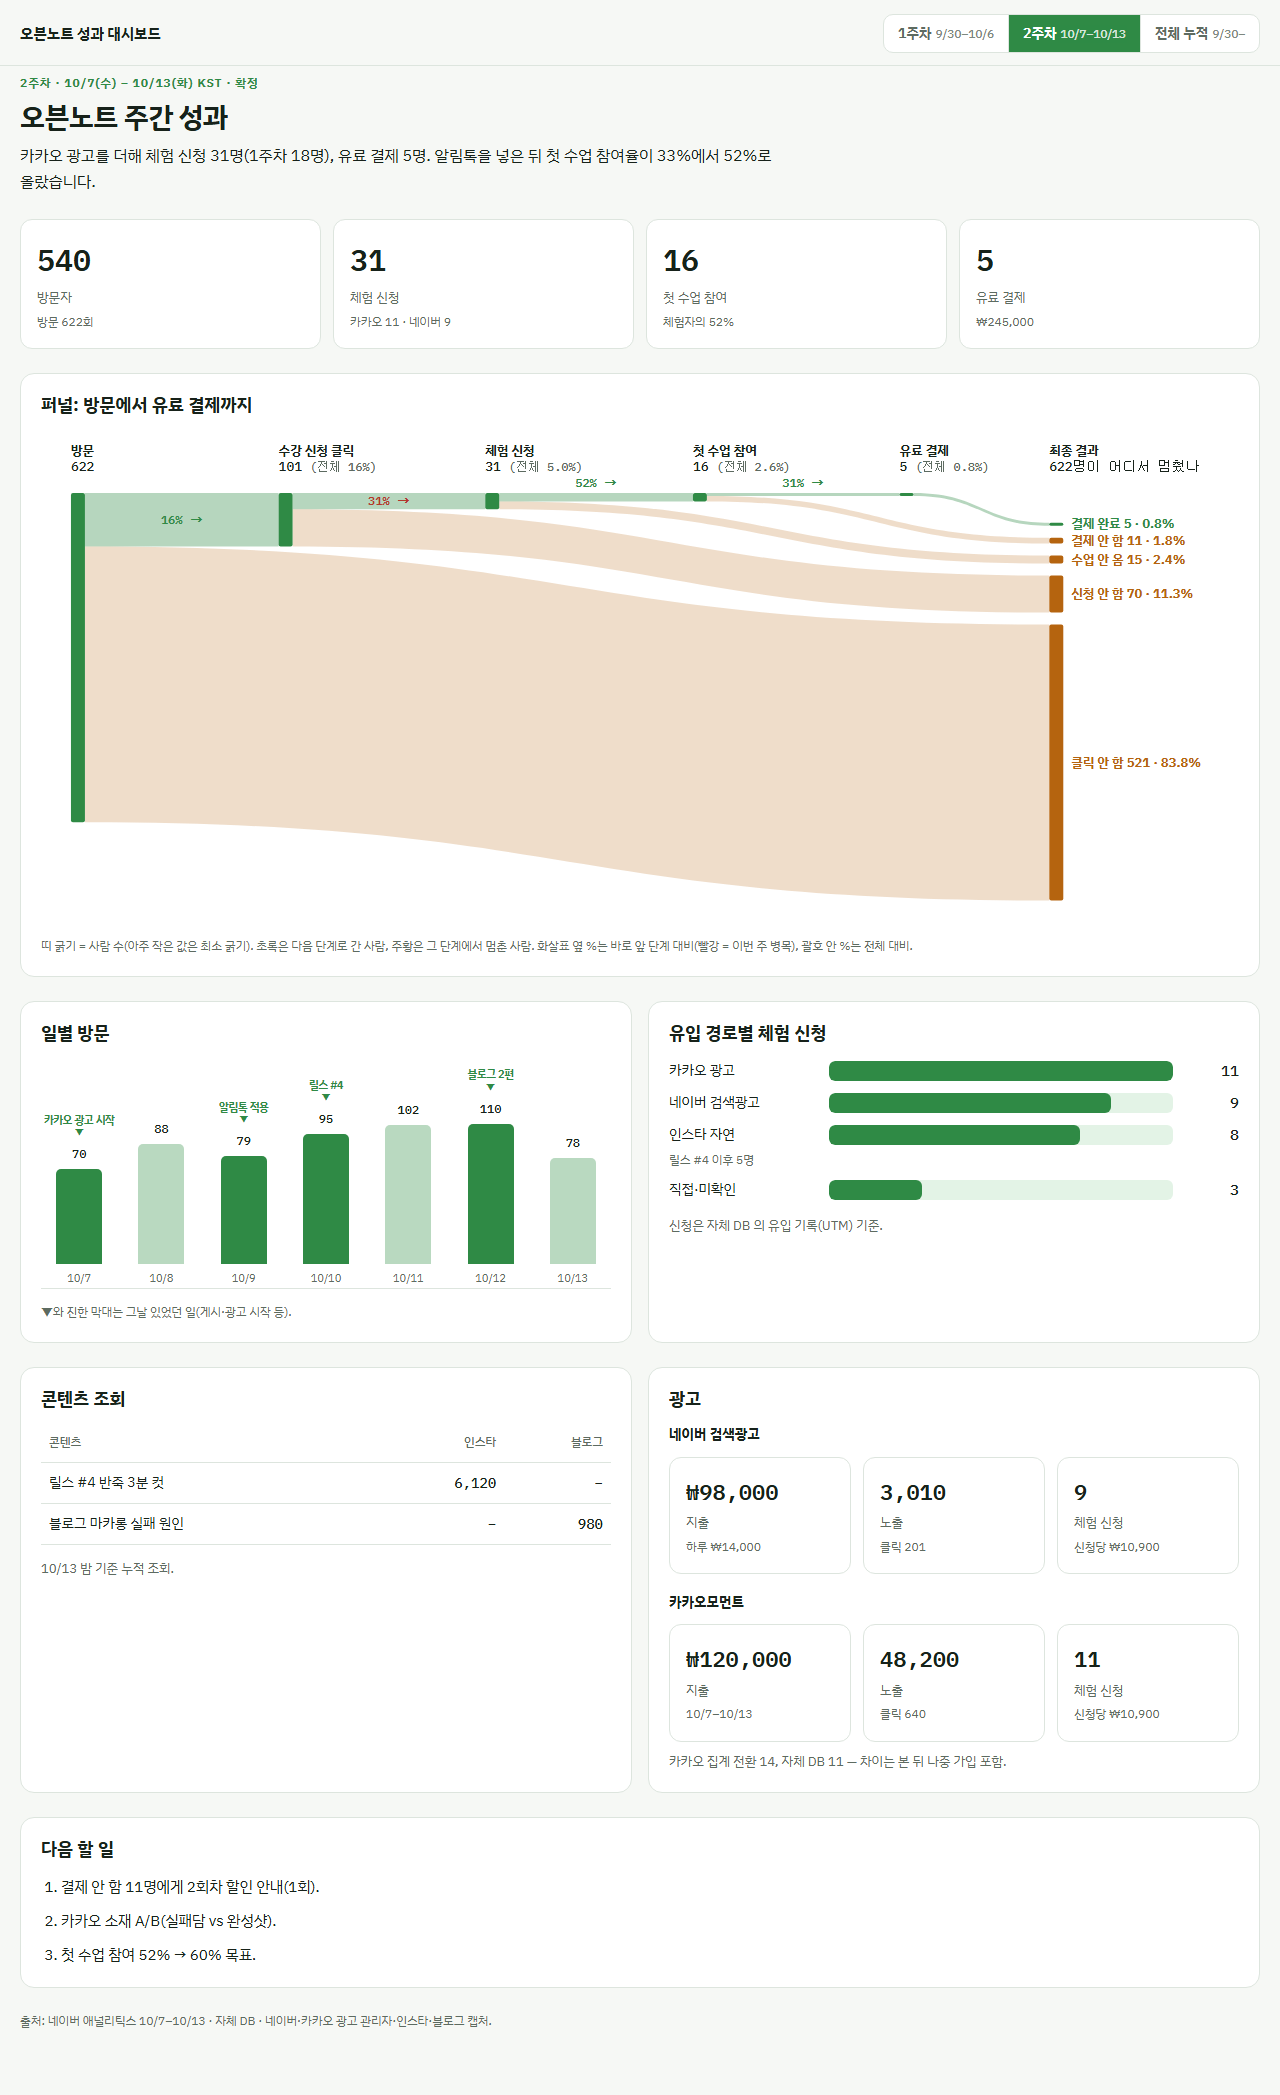
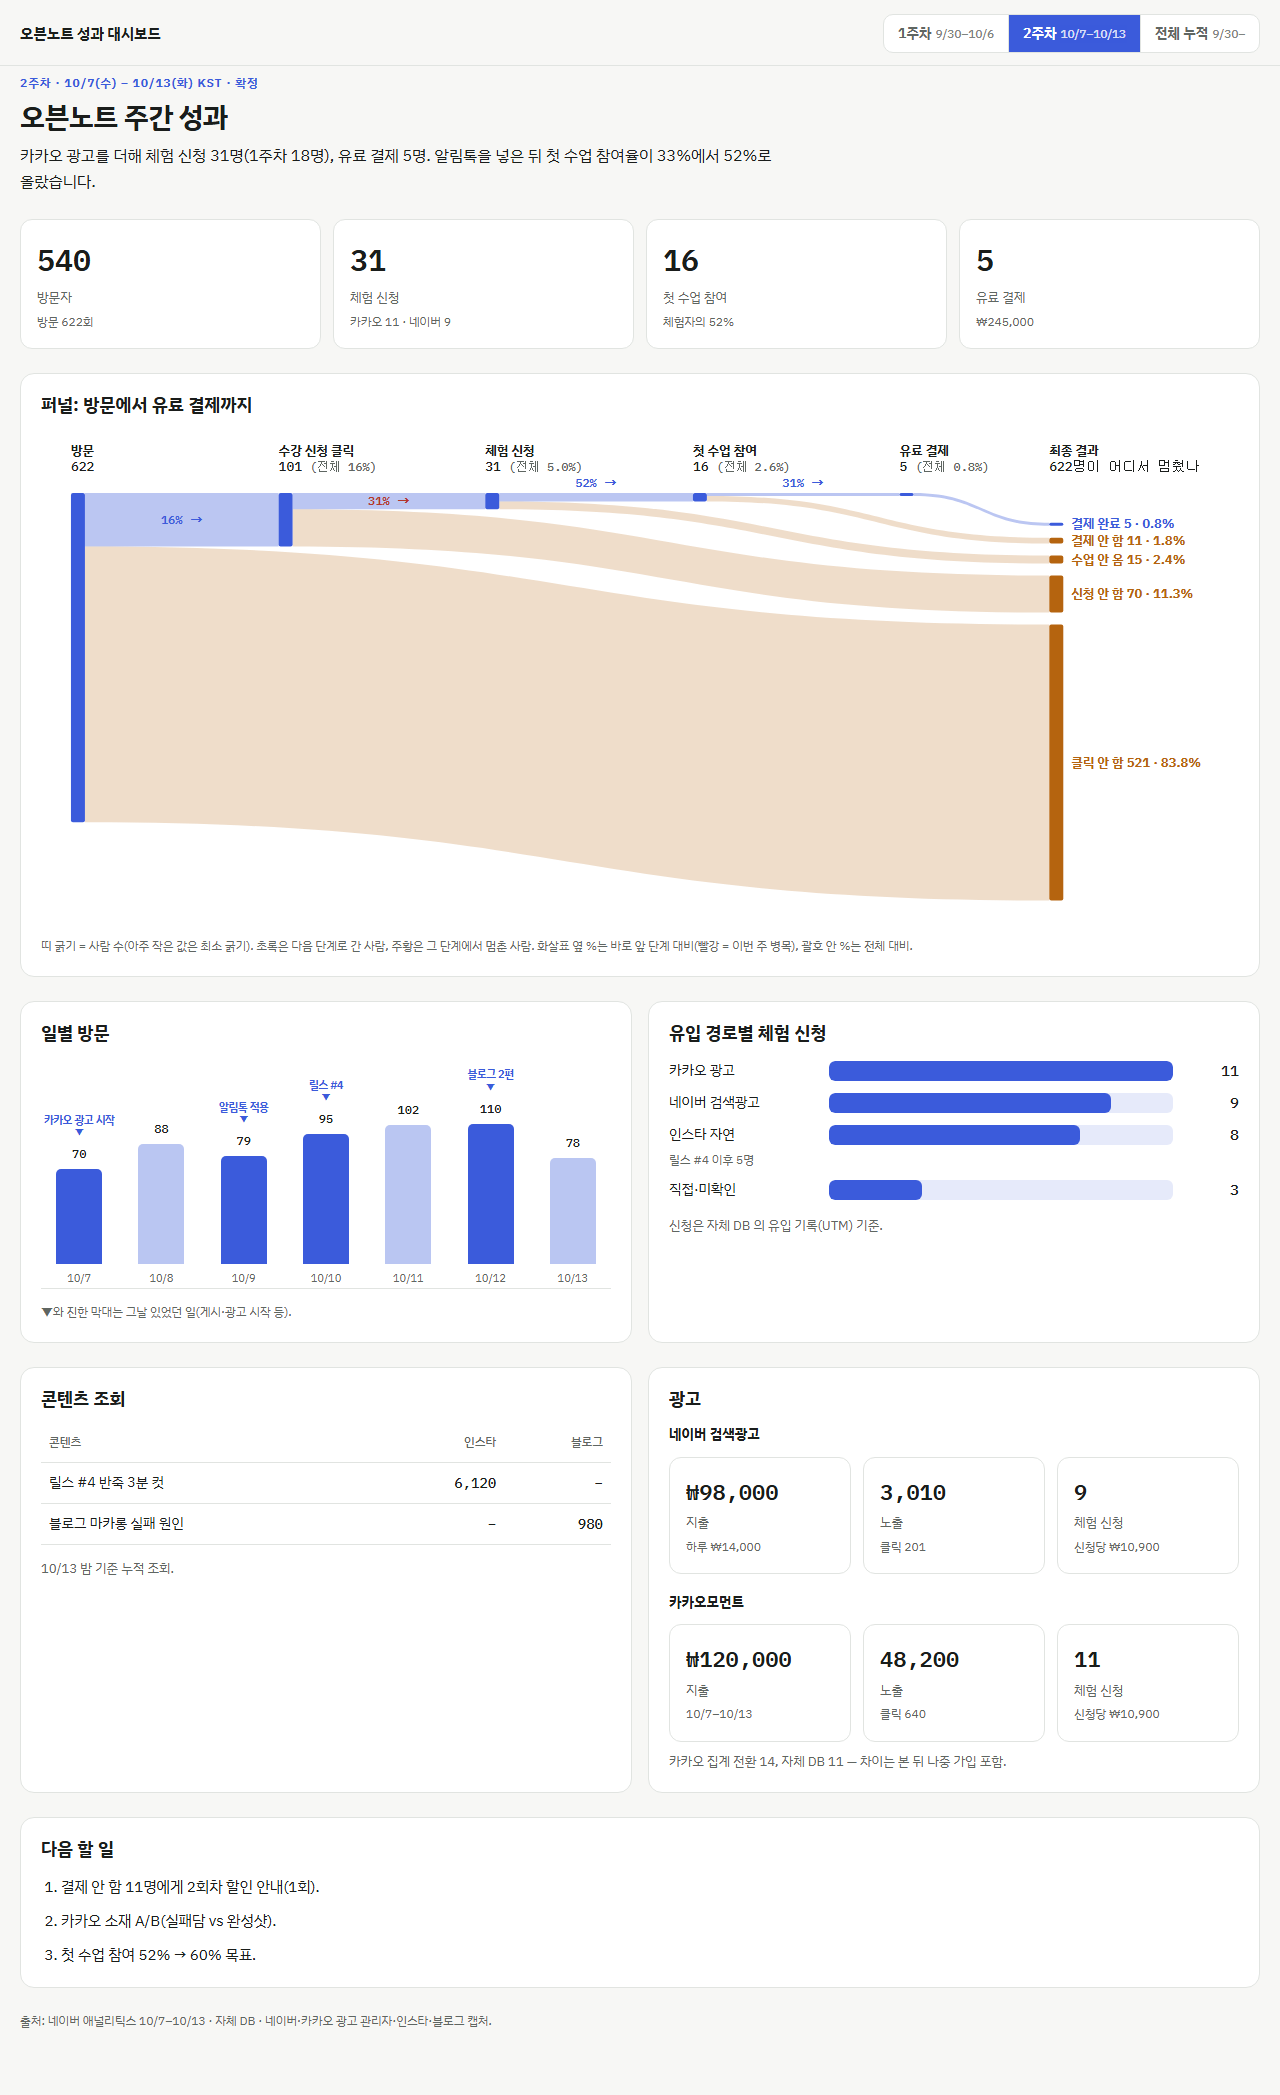
weekly-report kit v0.3 — 질문 4라운드(선택지), 서비스별 체크, 링크·스크린샷으로 브랜드 색

diff --git a/plugins/weekly-report/skills/weekly-report/references/template.html b/plugins/weekly-report/skills/weekly-report/references/template.html
@@ -10,20 +10,23 @@
 /* 주간 성과 대시보드 견본 — 화면 구조는 고정, 내용은 아래 <script> 의 REPORT 객체만 바꾼다.
    섹션: 기간 버튼 → 한 줄 요약 → KPI 4칸 → 퍼널(산키) → 일별 방문 + 유입별 전환 → 콘텐츠 표 + 광고 → 다음 할 일 → 출처 */
 :root {
-  --bg: #f6f8f5; --surface: #ffffff; --ink: #17221a; --muted: #5d6b61; --line: #dde5de;
-  --brand: #2f8a45; --brand-soft: #e3f3e6; --warn: #b5640f; --warn-soft: #fdf0e1; --bad: #b3372b;
-  --bar: var(--brand); --bar-dim: #b9d9c0;
+  /* 브랜드 색 하나(--brand-base)만 바꾸면 연한 톤·막대·다크 모드가 따라온다. REPORT.brandColor 가 이 값을 덮어쓴다. */
+  --brand-base: #2f8a45;
+  --bg: #f7f7f5; --surface: #ffffff; --ink: #1a1d1b; --muted: #5f6662; --line: #e1e4e1;
+  --brand: var(--brand-base); --brand-soft: color-mix(in srgb, var(--brand) 13%, var(--surface));
+  --warn: #b5640f; --warn-soft: #fdf0e1; --bad: #b3372b;
+  --bar: var(--brand); --bar-dim: color-mix(in srgb, var(--brand) 35%, var(--surface));
   --font-body: "IBM Plex Sans KR", "Apple SD Gothic Neo", "Malgun Gothic", system-ui, sans-serif;
   --font-num: "IBM Plex Mono", ui-monospace, "SFMono-Regular", monospace;
 }
 @media (prefers-color-scheme: dark) { :root:not([data-theme="light"]) {
-  --bg: #0f1511; --surface: #18201b; --ink: #e8efe9; --muted: #9aa99e; --line: #2a352d;
-  --brand: #6cc882; --brand-soft: #1d3324; --warn: #f0a85a; --warn-soft: #3a2a17; --bad: #f08a7e;
-  --bar-dim: #2f5a3a; color-scheme: dark } }
+  --bg: #121413; --surface: #1b1e1c; --ink: #e9ecea; --muted: #a0a7a3; --line: #2d322f;
+  --brand: color-mix(in srgb, var(--brand-base) 62%, #ffffff); --warn: #f0a85a; --warn-soft: #3a2a17; --bad: #f08a7e;
+  --bar-dim: color-mix(in srgb, var(--brand) 32%, var(--surface)); --on-brand: #121413; color-scheme: dark } }
 :root[data-theme="dark"] {
-  --bg: #0f1511; --surface: #18201b; --ink: #e8efe9; --muted: #9aa99e; --line: #2a352d;
-  --brand: #6cc882; --brand-soft: #1d3324; --warn: #f0a85a; --warn-soft: #3a2a17; --bad: #f08a7e;
-  --bar-dim: #2f5a3a; color-scheme: dark }
+  --bg: #121413; --surface: #1b1e1c; --ink: #e9ecea; --muted: #a0a7a3; --line: #2d322f;
+  --brand: color-mix(in srgb, var(--brand-base) 62%, #ffffff); --warn: #f0a85a; --warn-soft: #3a2a17; --bad: #f08a7e;
+  --bar-dim: color-mix(in srgb, var(--brand) 32%, var(--surface)); --on-brand: #121413; color-scheme: dark }
 * { box-sizing: border-box }
 body { background: var(--bg); color: var(--ink); font-family: var(--font-body); font-size: 15px; line-height: 1.6; padding: 0 16px 64px; margin: 0; word-break: keep-all }
 main { max-width: 1240px; margin: 0 auto; display: grid; gap: 24px }
@@ -40,7 +43,7 @@ p { margin: 0 }
 .seg { display: inline-flex; flex-wrap: wrap; border: 1px solid var(--line); border-radius: 10px; overflow: hidden; background: var(--surface) }
 .seg button { font: 600 14px var(--font-body); color: var(--muted); background: transparent; border: 0; padding: 8px 14px; cursor: pointer; border-right: 1px solid var(--line); white-space: nowrap }
 .seg button:last-child { border-right: 0 }
-.seg button[aria-pressed="true"] { background: var(--brand); color: var(--surface) }
+.seg button[aria-pressed="true"] { background: var(--brand); color: var(--on-brand, #fff) }
 .seg small { font-weight: 500; opacity: .8; margin-left: 4px }
 header.hd { display: grid; gap: 8px; padding-top: 8px }
 .headline { font-size: 16px; max-width: 80ch }
@@ -106,7 +109,8 @@ footer { font-size: 12px; color: var(--muted) }
 const REPORT = {
   brand: '오븐노트 성과 대시보드',
   title: '오븐노트 주간 성과',
-  brandColor: '',               // 예: '#c2410c' — 비우면 기본 초록
+  brandColor: '#3b5bdb',        // 서비스 대표 색(홈페이지 버튼·로고에서 뽑음). 비우면 기본 초록
+  dropColor: '',                // 선택: 퍼널 '멈춘 사람' 색. 브랜드가 주황·빨강 계열이면 '#8a8f8c'
   current: 'w2',                // 처음 열릴 기간
   periods: [
     { id: 'w1', label: '1주차', range: '9/30–10/6' },
@@ -216,7 +220,7 @@ function render(p) {
   <section aria-label="핵심 숫자">${tiles(d.kpis || [])}</section>
   <section class="panel"><h2>퍼널: ${esc(d.funnel.stages[0][0])}에서 ${esc(d.funnel.stages.at(-1)[0])}까지</h2>
     <div class="sankeywrap">${sankey(d.funnel)}</div>
-    <p class="conv">띠 굵기 = 사람 수(아주 작은 값은 최소 굵기). 초록은 다음 단계로 간 사람, 주황은 그 단계에서 멈춘 사람. 화살표 옆 %는 바로 앞 단계 대비(빨강 = 이번 주 병목), 괄호 안 %는 전체 대비.</p></section>
+    <p class="conv">띠 굵기 = 사람 수(아주 작은 값은 최소 굵기). 진한 색은 다음 단계로 간 사람, 주황(또는 회색)은 그 단계에서 멈춘 사람. 화살표 옆 %는 바로 앞 단계 대비(빨강 = 이번 주 병목), 괄호 안 %는 전체 대비.</p></section>
   <section class="two">
     <div class="panel"><h2>${esc(d.daysTitle || '일별 방문')}</h2>${days.length ? `<div class="daily" role="img" aria-label="일별 방문자">${dayHtml}</div><p class="muted" style="font-size:12px">▼와 진한 막대는 그날 있었던 일(게시·광고 시작 등).</p>` : empty('일별 방문')}</div>
     <div class="panel"><h2>${esc(src.title || '유입 경로별 전환')}</h2>${src.rows.length ? `<div class="bars">${src.rows.map(([n, c, note]) => `<div class="brow"><span style="font-size:14px">${esc(n)}</span><div class="track"><div class="fill" style="width:${(c / srcMax * 100).toFixed(0)}%"></div></div><span class="num" style="text-align:right">${c}</span></div>${note ? `<div class="muted" style="font-size:12px;margin-top:-4px">${esc(note)}</div>` : ''}`).join('')}</div>` : empty('유입 경로')}${src.note ? `<p class="muted" style="font-size:13px">${esc(src.note)}</p>` : ''}</div>
@@ -233,7 +237,8 @@ function render(p) {
 
 document.title = REPORT.brand;
 document.getElementById('brand').textContent = REPORT.brand;
-if (REPORT.brandColor) document.documentElement.style.setProperty('--brand', REPORT.brandColor);
+if (REPORT.brandColor) document.documentElement.style.setProperty('--brand-base', REPORT.brandColor);
+if (REPORT.dropColor) document.documentElement.style.setProperty('--warn', REPORT.dropColor); // 브랜드가 주황·빨강 계열이면 '멈춘 사람' 색을 회색 등으로
 document.getElementById('seg').innerHTML = REPORT.periods.map(x => `<button type="button" data-p="${esc(x.id)}">${esc(x.label)}<small>${esc(x.range)}</small></button>`).join('');
 document.querySelectorAll('#seg button').forEach(bt => bt.addEventListener('click', () => render(bt.dataset.p)));
 let start = REPORT.current;

diff --git a/plugins/weekly-report/skills/weekly-report/references/intake.md b/plugins/weekly-report/skills/weekly-report/references/intake.md
@@ -1,0 +1,54 @@
+# 첫 설정 인터뷰 — 기본 정보 모으기
+
+**질문 방식:** 질문 도구(Claude Code 의 AskUserQuestion, claude.ai 의 선택지 버튼)가 있으면 반드시 그걸로 묻는다 — 한 번에 최대 4문항, 문항당 선택지 2~4개, '기타'는 자동으로 붙는다. 도구가 없으면 번호 객관식으로 한 메시지에 묶어 묻는다. 이미 아는 것(설정 파일·첨부·앞 대화)은 다시 묻지 않는다.
+
+## 1라운드 — 기본 (4문항)
+| 질문 | 선택지 예 |
+|---|---|
+| 무엇을 파나요? | 앱·SaaS 구독 / 온라인 클래스·강의 / 쇼핑몰 / 오프라인 매장·예약 |
+| 돈이 들어오는 순간(퍼널 끝)은? | 유료 결제 / 첫 구매 / 예약 확정·방문 / 상담 신청 |
+| 한 주는 언제부터? | 월 00:00 시작 / 수 00:00 시작 / 일 00:00 시작 |
+| 보고서는 누가 보나요? | 나 혼자 / 팀 주간 회의 / 투자자·파트너 |
+
+사업 이름·시간대·서비스 주소는 자유 입력으로 한 줄 받는다("사업 이름과 홈페이지 주소(또는 메인 화면 스크린샷)를 알려 주세요").
+
+## 2라운드 — 쓰는 서비스 (4문항, 모두 다중 선택)
+| 질문 | 선택지 |
+|---|---|
+| 방문은 어디서 보나요? | GA4 / 네이버 애널리틱스 / 사이트 빌더 기본 통계(Wix·Squarespace·아임웹·카페24) / 아직 없음 |
+| 광고는? | 메타(인스타·페북) / 구글 / 틱톡 / 네이버·카카오 |
+| SNS·콘텐츠는? | 인스타그램 / 틱톡 / 유튜브 / 블로그·카톡 채널 |
+| 가입·주문·결제 기록은? | 자체 DB / 구글 폼·시트 / 결제 도구(Stripe·토스·Square) / 쇼핑몰 관리자(스마트스토어·Shopify) |
+
+## 3라운드 — 고른 서비스만, 서비스별 필요한 것
+고른 것만 묻는다(4문항씩 끊어서). 각 서비스에서 매주 받을 방법은 셋 중 하나: **연결**(API·MCP·CLI 가 이 환경에 있을 때) / **내보내기 파일**(CSV·엑셀) / **스크린샷**. 처음 쓰는 사람에겐 스크린샷을 기본 추천.
+
+| 서비스 | 꼭 확인할 것 | 매주 받을 것 |
+|---|---|---|
+| GA4 | 가입·구매가 이벤트로 잡히나(이벤트 이름: sign_up·purchase 등) · 전환(주요 이벤트) 설정 여부 | 보고서 > 참여도 > 이벤트, 획득 > 트래픽 획득(세션 소스/매체), 일별 사용자 — 기간 맞춰 캡처 |
+| 네이버 애널리틱스 | 사이트 등록·전환 스크립트 여부 | 방문 분석·유입 경로 엑셀 |
+| 사이트 빌더 통계 | 방문(visits)인지 방문자(visitors)인지 | 트래픽 화면 캡처 |
+| 메타 광고 | 픽셀 있나 · 결과(전환)로 무엇을 최적화하나 | 광고 관리자 캠페인 표 — 지출·노출·도달·결과·결과당 비용 열 |
+| 구글 Ads | 전환 액션 이름 | 캠페인 표 — 비용·클릭·노출·전환 |
+| 틱톡 광고 | 픽셀 이벤트 | 캠페인 표 — 비용·노출·전환 |
+| 네이버 검색광고 / 카카오모먼트 | 전환 추적 설치 여부 | 보고서 엑셀 또는 캡처 |
+| 인스타그램 | **프로페셔널(비즈니스·크리에이터) 계정인가** — 아니면 인사이트가 없다 | 게시물별 인사이트(조회·좋아요·저장·공유·팔로우), 프로필 방문·링크 클릭 |
+| 틱톡 | 비즈니스·크리에이터 계정 | 분석 > 콘텐츠 조회 |
+| 유튜브 | 쇼츠·롱폼 | 스튜디오 > 분석 > 콘텐츠 |
+| 블로그·카톡 채널 | 숫자를 볼 수 있나(없으면 '…'로 표시) | 통계 화면 캡처 |
+| 자체 DB | 가입 시 유입(UTM·referrer) 저장 여부 | 이번 주 단계별 건수 + 유입별 건수(쿼리 또는 캡처) |
+| 구글 폼·시트 | '유입' 칸이 있나(없으면 추가 권장) | 시트 캡처·CSV |
+| 결제 도구 | 환불 제외 여부 | 결제 완료 건수·금액 |
+
+'꼭 확인할 것'이 '아니오'면 막지 말고 진행한다 — 그 칸은 비우고, `next`(다음 할 일)에 "○○ 설정하기"를 넣는다(예: 인스타 프로페셔널 계정 전환, 링크에 UTM).
+
+## 4단계 — 색감
+- **링크를 받으면:** 페이지를 직접 열어 본다(웹 가져오기·브라우저 도구). 우선순위: ① 주요 버튼(CTA) 배경색 ② 로고 색 ③ `<meta name="theme-color">` ④ CSS 변수(`--primary`, `--brand` 등). 흰색·검정·회색은 제외.
+- **스크린샷을 받으면:** 이미지에서 가장 눈에 띄는 버튼·로고 색을 읽는다.
+- 고른 색을 `brandColor` 에 넣는다(대시보드가 연한 톤·막대·다크 모드를 이 색에서 만든다). 너무 밝아 흰 글자가 안 읽히는 색(노랑·연두 등)이면 한 단계 진하게.
+- 브랜드가 주황·빨강 계열이면 퍼널의 '멈춘 사람' 색과 겹치므로 `dropColor: '#8a8f8c'`.
+- 사용자에게 "홈페이지 버튼 색 #xxxxxx 로 맞췄어요"처럼 근거와 함께 한 줄로 알려 준다.
+- 링크도 스크린샷도 없으면 기본 초록 그대로.
+
+## 끝나면
+위 답을 `weekly-report.config.json` 으로 저장하고(형식 `config.example.json`), 이번 주에 받을 자료 목록을 서비스별 한 줄로 정리해 보여 준다 — "GA4: 이벤트 화면 캡처 1장, 메타: 캠페인 표 캡처 1장 …".

diff --git a/PROMPT.md b/PROMPT.md
@@ -8,13 +8,13 @@
 너는 내 사업의 주간 성과 보고서를 만드는 분석 담당이야. 첨부한 template.html 이 레퍼런스(완성 견본)야.
 화면 구조와 디자인은 그대로 두고, 파일 안 <script> 의 REPORT 객체만 내 숫자로 바꿔서 완성된 HTML 한 장을 줘.
 
-[1단계 — 처음이면 먼저 물어봐. 한 번에 묶어서, 객관식 위주로]
-1) 사업 이름, 무엇을 파는지 한 줄, 보고서를 누구에게 보여 주는지
-2) 한 주의 기준: 시작 요일과 시간대
-3) 퍼널 단계 3~7개(방문 → … → 돈이 들어오는 순간)와 각 단계를 어디서 세는지(분석 도구 / 내 DB / 결제 도구)
-4) 쓰는 도구: 분석(GA4·네이버 애널리틱스·웹사이트 빌더 기본 통계(Wix·Squarespace·아임웹)·없음), 광고(메타·구글·네이버 검색광고·카카오모먼트·틱톡·없음), SNS(인스타·틱톡·유튜브·블로그·카톡 채널 등), 가입/주문 데이터(자체 DB·스마트스토어·Shopify·구글 폼/시트), 결제(Stripe·Square·토스·스마트스토어 정산)
-5) 이번 주에 한 일을 날짜별로(게시·광고 시작·가격 변경·메일 발송 등)
-답을 받으면 다음 주에 다시 쓸 수 있게 설정을 JSON 으로 정리해서 보여 줘(키: business, week, funnel[{label,source,metric}], drops, done, channels{analytics,ads,social,signups,payments}, howToFetch, currency, brandColor).
+[1단계 — 처음이면 먼저 물어봐]
+질문은 누를 수 있는 선택지(질문 버튼 기능)가 있으면 그걸로, 없으면 번호 객관식으로. 한 번에 4문항까지, 이미 아는 건 다시 묻지 마. 4번에 나눠서:
+① 기본: 무엇을 파는지(앱·구독 / 클래스 / 쇼핑몰 / 매장·예약) · 돈이 들어오는 순간(결제 / 첫 구매 / 예약 확정 / 상담 신청) · 한 주 시작 요일 · 누가 보는지 + 사업 이름·시간대·홈페이지 주소 또는 메인 화면 스크린샷
+② 쓰는 서비스(여러 개 고르기): 방문 분석(GA4·네이버 애널리틱스·사이트 빌더 통계·없음) / 광고(메타·구글·틱톡·네이버·카카오) / SNS(인스타·틱톡·유튜브·블로그·카톡 채널) / 가입·결제 기록(자체 DB·구글 폼/시트·Stripe·토스·Square·스마트스토어)
+③ 고른 서비스만, 꼭 확인할 것과 매주 받을 방법(연결 / 파일 / 스크린샷 — 처음이면 스크린샷 추천). 예: 인스타는 프로페셔널 계정인지(아니면 인사이트 없음), GA4 는 가입·구매 이벤트가 잡히는지, 메타 광고는 무엇을 전환으로 보는지, 시트엔 '유입' 칸이 있는지. '아니오'면 그 칸은 비우고 다음 할 일에 "설정하기"로 넣어.
+④ 색감: 홈페이지 주소를 주면 직접 들어가서 버튼·로고 색을, 스크린샷이면 이미지에서 색을 뽑아 REPORT.brandColor 에 넣어(흰·검·회색 제외, 너무 밝으면 한 단계 진하게, 주황·빨강 계열이면 dropColor: '#8a8f8c'). 무슨 색을 어디서 뽑았는지 한 줄로 알려 줘.
+그다음 퍼널 단계 3~7개를 고른 서비스로 제안해 확인받고, 다음 주에 다시 쓸 수 있게 설정을 JSON 으로 정리해(키: business, week, site, brandColor, funnel[{label,source,metric}], drops, done, channels{analytics,ads,social,signups,payments}, howToFetch, currency). 마지막으로 "이번 주에 한 일을 날짜별로"와 서비스별로 보내 줄 자료 목록(예: GA4 이벤트 화면 캡처 1장)을 요청해.
 
 [2단계 — 숫자 모으기]
 - 도구마다 어디를 캡처하거나 내보내면 되는지 짧게 알려 주고, 내가 준 캡처·CSV 에서 숫자를 읽어 옮겨.
